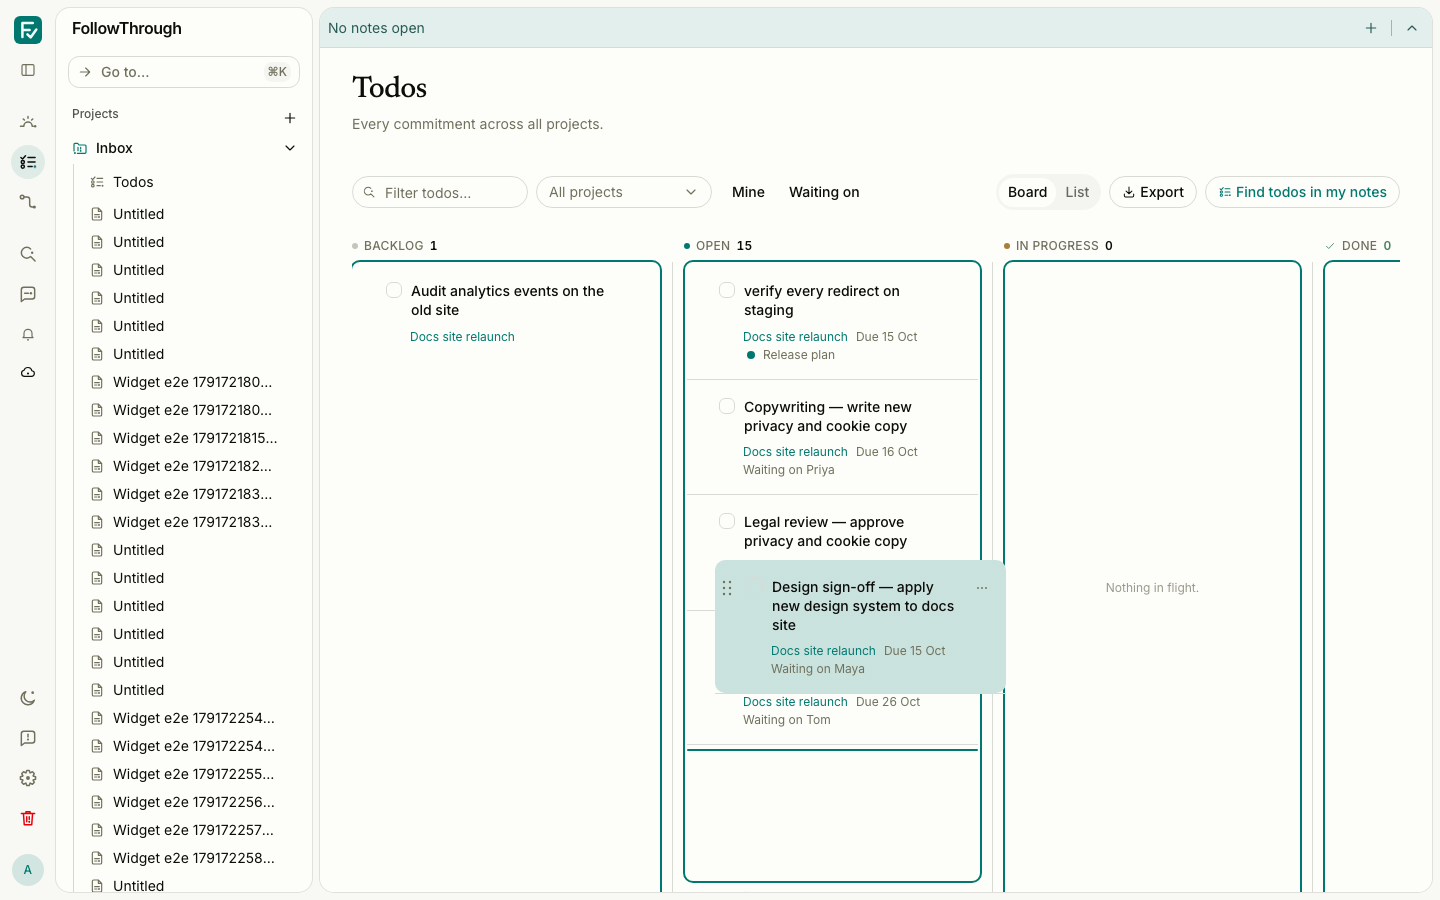
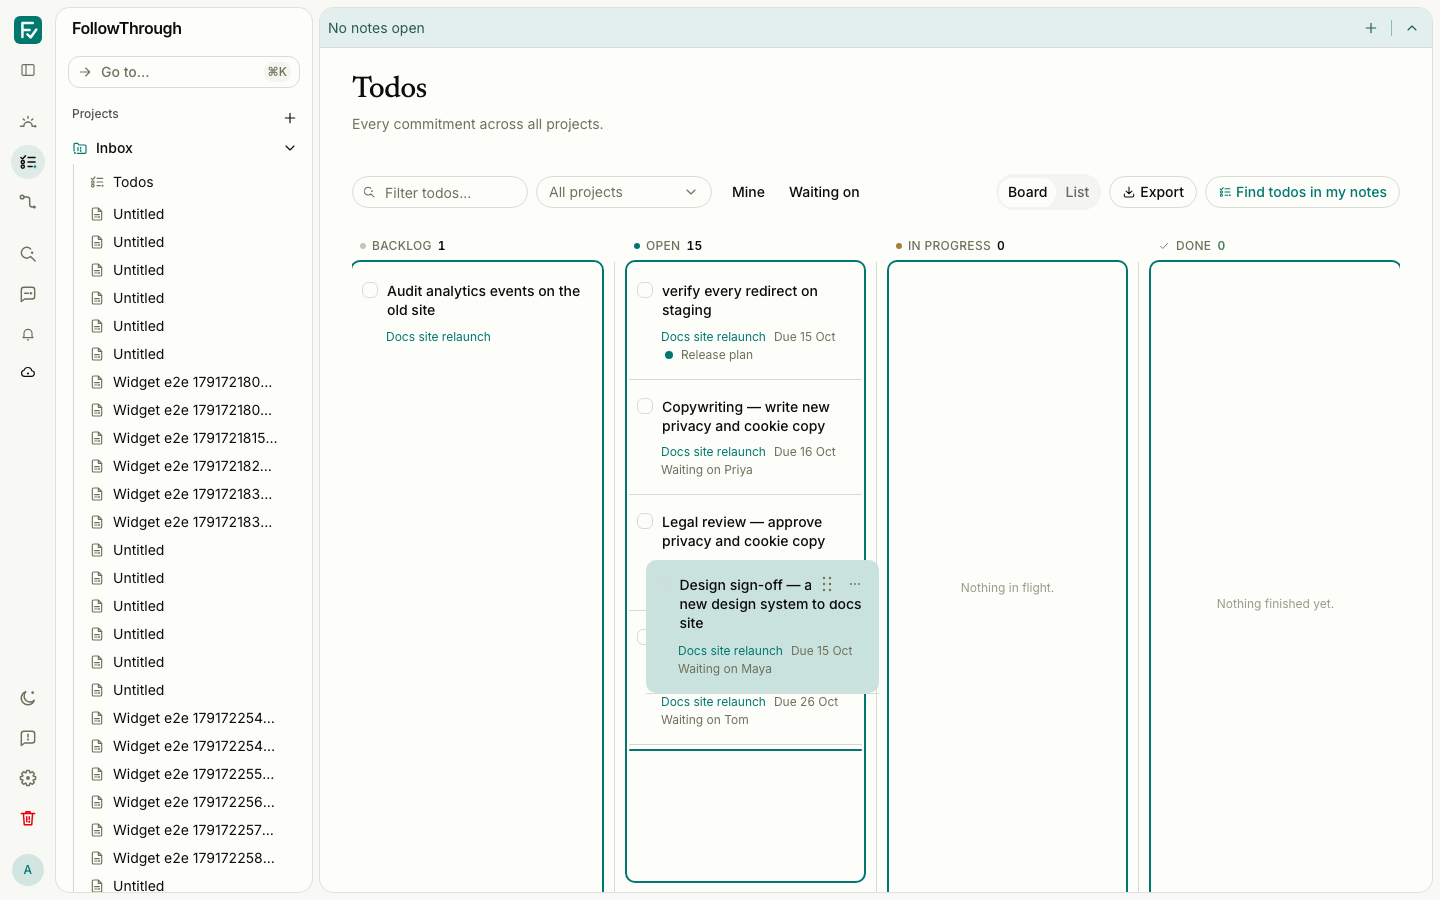
fix(todos): align column titles with rows and fit all board columns

diff --git a/src/lib/components/todos/todo-row.svelte b/src/lib/components/todos/todo-row.svelte
@@ -82,30 +82,11 @@
 	data-slot="todo-row"
 	data-lifted={lifted || undefined}
 	class={[
-		'flex items-start gap-item px-2 py-4 transition-[background-color,opacity,scale] duration-200',
+		'relative flex items-start gap-item px-2 py-4 transition-[background-color,opacity,scale] duration-200',
 		completing && 'scale-95 opacity-50'
 	]}
 	onclick={openBody}
 >
-	{#if draggable}
-		<!-- svelte-dnd-action intentionally uses a non-passive listener here: touch dragging
-		     calls preventDefault(), so making it passive would break the drag handle. -->
-		<Tip text="Drag todo">
-			{#snippet children({ props })}
-				<!-- Reveals on hover/focus. Opacity rather than display so the row
-				     never reflows and the handle stays keyboard-reachable. -->
-				<span
-					{...props}
-					use:dragHandle
-					data-row-reveal
-					class="-ml-2 inline-flex size-6 shrink-0 items-center justify-center rounded-sm text-muted-foreground outline-none focus-visible:ring-2 focus-visible:ring-ring"
-					aria-label="Drag {view.todo.title}"
-				>
-					<Icon.Grip />
-				</span>
-			{/snippet}
-		</Tip>
-	{/if}
 	<Checkbox
 		class="mt-0.5"
 		checked={done}
@@ -179,35 +160,59 @@
 			</p>
 		{/if}
 	</div>
-	{#if onstatus}
-		<DropdownMenu.Root>
-			<DropdownMenu.Trigger>
-				{#snippet child({ props })}
-					<Button
-						{...props}
-						data-row-reveal
-						variant="ghost"
-						size="icon"
-						class="-my-1 size-11 shrink-0 text-muted-foreground sm:size-8"
-						aria-label="Move todo"
-					>
-						<Icon.Ellipsis />
-					</Button>
-				{/snippet}
-			</DropdownMenu.Trigger>
-			<DropdownMenu.Content align="end">
-				<DropdownMenu.Group>
-					<DropdownMenu.Label>Move to…</DropdownMenu.Label>
-					{#each statuses as status (status)}
-						<DropdownMenu.Item
-							disabled={status === view.todo.status}
-							onSelect={() => onstatus?.(view.todo.id, status)}
+	{#if draggable || onstatus}
+		<!-- One trailing cluster. On pointer layouts it overlays the row's top-right
+		     corner on hover instead of reserving width at rest (layout.css,
+		     [data-row-controls]); on touch it stays in flow and visible. -->
+		<div data-row-controls class="-my-1 flex shrink-0 items-center">
+			{#if draggable}
+				<!-- Trailing, beside the move menu: a leading handle pushed the checkbox a
+				     handle's width in from the column title it should line up under.
+				     svelte-dnd-action uses a non-passive listener here on purpose: touch
+				     dragging calls preventDefault(), so a passive one breaks the handle. -->
+				<Tip text="Drag todo">
+					{#snippet children({ props })}
+						<span
+							{...props}
+							use:dragHandle
+							class="inline-flex size-6 shrink-0 items-center justify-center rounded-sm text-muted-foreground outline-none focus-visible:ring-2 focus-visible:ring-ring"
+							aria-label="Drag {view.todo.title}"
 						>
-							{todoStatusLabels[status]}
-						</DropdownMenu.Item>
-					{/each}
-				</DropdownMenu.Group>
-			</DropdownMenu.Content>
-		</DropdownMenu.Root>
+							<Icon.Grip />
+						</span>
+					{/snippet}
+				</Tip>
+			{/if}
+			{#if onstatus}
+				<DropdownMenu.Root>
+					<DropdownMenu.Trigger>
+						{#snippet child({ props })}
+							<Button
+								{...props}
+								variant="ghost"
+								size="icon"
+								class="size-11 shrink-0 text-muted-foreground sm:size-8"
+								aria-label="Move todo"
+							>
+								<Icon.Ellipsis />
+							</Button>
+						{/snippet}
+					</DropdownMenu.Trigger>
+					<DropdownMenu.Content align="end">
+						<DropdownMenu.Group>
+							<DropdownMenu.Label>Move to…</DropdownMenu.Label>
+							{#each statuses as status (status)}
+								<DropdownMenu.Item
+									disabled={status === view.todo.status}
+									onSelect={() => onstatus?.(view.todo.id, status)}
+								>
+									{todoStatusLabels[status]}
+								</DropdownMenu.Item>
+							{/each}
+						</DropdownMenu.Group>
+					</DropdownMenu.Content>
+				</DropdownMenu.Root>
+			{/if}
+		</div>
 	{/if}
 </div>

diff --git a/src/lib/components/todos/kanban-board.svelte b/src/lib/components/todos/kanban-board.svelte
@@ -168,35 +168,38 @@
 </script>
 
 <!-- Columns are zones separated by hairlines, not filled trays: structure appears
-     during a drag (the lifted row, the drop line, the zone outline), not at rest. -->
-<div
-	class="flex min-h-0 flex-1 snap-x snap-mandatory overflow-x-auto pb-3 2xl:grid 2xl:grid-cols-4 2xl:grid-rows-1 2xl:overflow-visible 2xl:pb-0"
->
+     during a drag (the lifted row, the drop line, the zone outline), not at rest.
+     Columns share the width equally and scroll sideways only once they would drop
+     below 16rem, so a laptop-width board shows all four instead of clipping Done. -->
+<div class="flex min-h-0 flex-1 snap-x snap-mandatory overflow-x-auto pb-3">
 	{#each columns as status (status)}
 		{@const items = board[status]}
 		{@const isExpanded = expanded.has(status)}
 		{@const visible = visibleItems(items, isExpanded)}
 		<section
-			class="group/col flex min-h-40 w-80 shrink-0 snap-start flex-col gap-item overflow-hidden 2xl:w-auto 2xl:min-w-0"
+			class="group/col flex min-h-40 min-w-64 flex-1 basis-0 snap-start flex-col gap-item overflow-hidden"
 		>
 			<!-- The title sits above its column's rule: the rule separates content,
 			     not labels, so the titles read as one row heading every column. -->
-			<h3
-				class="eyebrow flex items-center gap-1.5 px-row pt-1 group-first/col:pl-0 group-last/col:pr-0"
-			>
-				{#if status === 'done'}
-					<Icon.Check class="size-3 text-success" />
-				{:else}
-					<span class={['size-1.5 shrink-0 rounded-full', todoStatusStyle[status].dotClass]}></span>
-				{/if}
-				{todoStatusLabels[status]}
-				<span
-					class={[
-						'font-semibold tabular-nums',
-						status === 'done' ? 'text-success' : 'text-foreground'
-					]}>{items.length}</span
-				>
-			</h3>
+			<!-- The heading mirrors the body's structure — the column inset outside, the
+			     row's own px-2 inside — so the status dot lines up over the checkboxes. -->
+			<div class="px-row group-first/col:pl-0 group-last/col:pr-0">
+				<h3 class="eyebrow flex items-center gap-1.5 px-2 pt-1">
+					{#if status === 'done'}
+						<Icon.Check class="size-3 text-success" />
+					{:else}
+						<span class={['size-1.5 shrink-0 rounded-full', todoStatusStyle[status].dotClass]}
+						></span>
+					{/if}
+					{todoStatusLabels[status]}
+					<span
+						class={[
+							'font-semibold tabular-nums',
+							status === 'done' ? 'text-success' : 'text-foreground'
+						]}>{items.length}</span
+					>
+				</h3>
+			</div>
 			<div
 				class="flex min-h-0 flex-1 flex-col border-l border-border px-row group-first/col:border-l-0 group-first/col:pl-0 group-last/col:pr-0"
 			>
@@ -235,6 +238,11 @@
 							/* The placeholder is a 2px drop line, so morphing the clone to its
 						   size would crush the held row. The clone keeps the row's size. */
 							morphDisabled: true,
+							/* The handle trails the row, so the clone would otherwise hang a
+						   row's width left of the pointer and the library — which targets
+						   by the clone's centre — would drop into the column the pointer
+						   just left. Centred, the target is the column under the pointer. */
+							centreDraggedOnCursor: true,
 							type: 'todo',
 							/* The default drop-target outline is library yellow. */
 							dropTargetStyle: { outline: '2px solid var(--color-brand)' },

diff --git a/src/routes/layout.css b/src/routes/layout.css
@@ -1764,17 +1764,21 @@
 	#dnd-action-dragged-el {
 		outline: none;
 	}
-	/* Row controls are quiet at rest on pointer layouts and reveal on hover, focus,
-	   or while their menu is open. Touch layouts keep them visible: there is no
-	   hover to reveal them. Opacity, not display, so the row never reflows. */
+	/* Row controls (drag handle, move menu) are quiet at rest on pointer layouts:
+	   they overlay the row's top-right corner on hover, focus, or while the menu is
+	   open, so a resting row gives its whole width to the title — reserved but
+	   invisible controls cost a narrow column a line of wrapping per todo. The
+	   cluster takes the row's own background so it sits cleanly over the text it
+	   covers. Touch layouts keep the cluster in flow and visible: there is no hover. */
 	@media (hover: hover) and (min-width: 48rem) {
-		[data-slot='todo-row'] [data-row-reveal] {
-			@apply opacity-0 transition-opacity;
+		[data-slot='todo-row'] [data-row-controls] {
+			@apply absolute top-3 right-2 rounded-md pl-1 opacity-0 transition-opacity;
+			background: inherit;
 		}
-		[data-slot='todo-row']:hover [data-row-reveal],
-		[data-slot='todo-row']:focus-within [data-row-reveal],
-		[data-slot='todo-row'][data-lifted] [data-row-reveal],
-		[data-slot='todo-row'] [data-row-reveal][data-state='open'] {
+		[data-slot='todo-row']:hover [data-row-controls],
+		[data-slot='todo-row']:focus-within [data-row-controls],
+		[data-slot='todo-row'][data-lifted] [data-row-controls],
+		[data-slot='todo-row'] [data-row-controls]:has([data-state='open']) {
 			@apply opacity-100;
 		}
 	}

diff --git a/docs/design/agent-digest.md b/docs/design/agent-digest.md
@@ -45,7 +45,7 @@
 - form labels: shadcn `Label` (and `Field.FieldLabel`) = xs/500/muted-fg — label recedes, value leads. `Field.Title` stays sm/500 fg over `Field.Description` xs/muted (settings rows). override per-site if a dialog label needs prominence
 - ladder: eyebrow/caption (xs) → body (sm) → section-title (base) → page-title (3xl) → note-title (clamp)
 - spacing ladder (layout.css `--spacing-*`): bind 4 / item 8 / row 12 / group 24 / section 40. vertical stacks (space-y, gap on flex-col/grid) use only these — not machine-checked; a numeric stack gap is a review finding. icon↔label gaps stay numeric
-- todos are divided rows (todo-row.svelte), never cards; one muted meta line; project = text-brand on rows (badge wash is for chips); drag = opaque brand/20 wash + 2px brand drop line, no shadow; board columns are hairline-separated zones with titles above the rules; rows are square (rounding bends divide-y hairlines), 8px title→meta, py-4
+- todos are divided rows (todo-row.svelte), never cards; one muted meta line; project = text-brand on rows (badge wash is for chips); drag = opaque brand/20 wash + 2px brand drop line, no shadow; board columns are hairline-separated zones with titles above the rules; rows are square (rounding bends divide-y hairlines), 8px title→meta, py-4; column title shares the row inset (dot over checkbox); trailing controls overlay on hover, no reserved width; columns flex-1 min-w-64
 - project-overview resource rows sit at base/500 — one step above the sm documents list, because a space outranks a document
 - exceptions: right-panel + drawio chrome-bar titles, sidebar brand = chrome, not content scale
 - chrome legibility floor: primary nav never below sm — workspace tab strip (h-10, sm labels), sidebar wordmark (base/semibold), empty-strip placeholder. xs=eyebrow/provenance only

diff --git a/docs/design/design-system.md b/docs/design/design-system.md
@@ -349,8 +349,12 @@ while the region is empty; the empty state and its one action are the whole surf
   provenance), 8px under the title, with 16px of padding to each hairline. A row is a square band
   between hairlines: rounding a divided row bends its dividers into card edges, so only the
   lifted row rounds. Board columns are zones separated by hairlines, not filled trays, and each
-  column's title sits above its rule — the rule separates content, not labels. Row controls
-  (drag handle, move menu) reveal on hover or focus on pointer layouts and stay visible on touch.
+  column's title sits above its rule — the rule separates content, not labels — and shares the
+  row's inset, so the status dot stands over the checkboxes. Columns share the width equally down
+  to `min-w-64`, then scroll sideways. Row controls (drag handle, move menu) form one trailing
+  cluster: on pointer layouts it reserves no width at rest and overlays the row's top-right corner
+  on hover, focus, or while its menu is open; on touch it stays in flow and visible. A leading
+  handle is not used — it pushed the checkbox a handle's width in from the title above it.
   No second board-density toggle. Editable popovers never resize rows;
   provenance stays separate from the user-selected source. Controls use the flat shadcn Select,
   Popover, Calendar, Command, Input, and Textarea; selection commits immediately, text on
